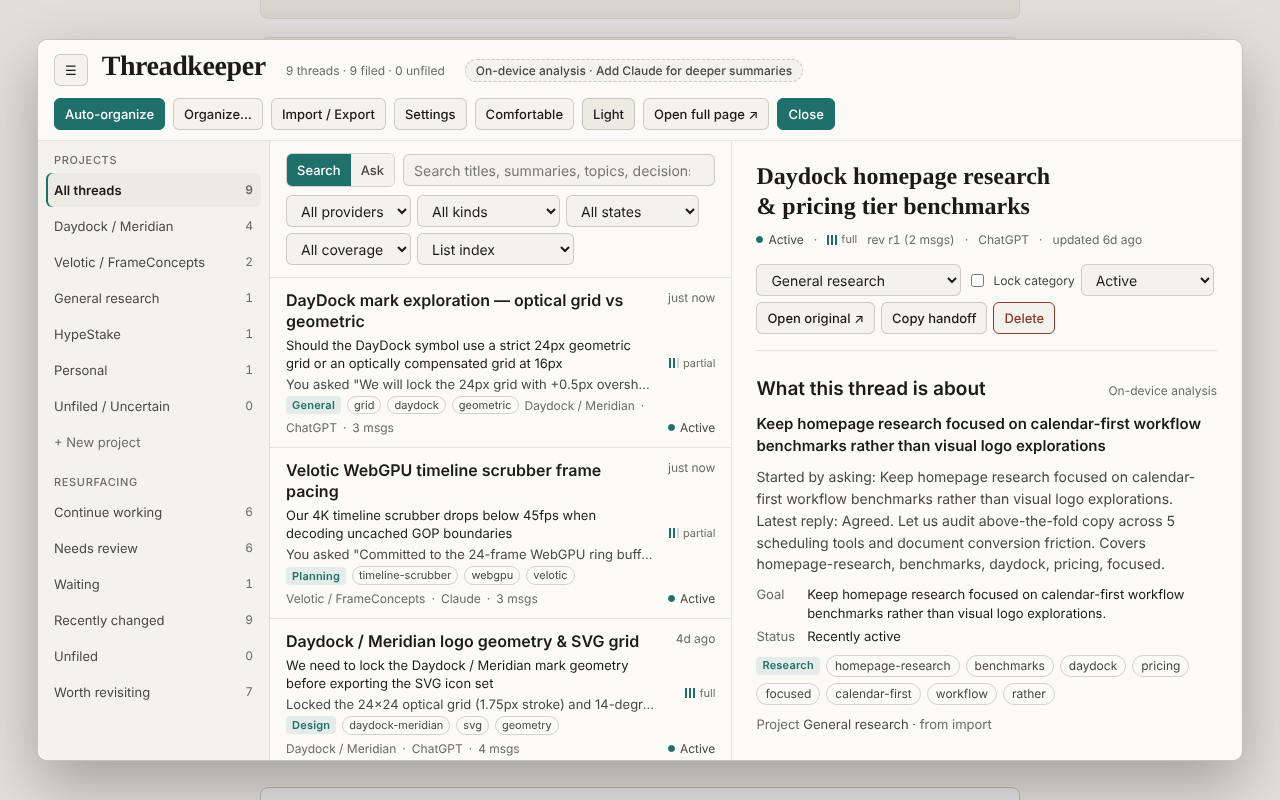
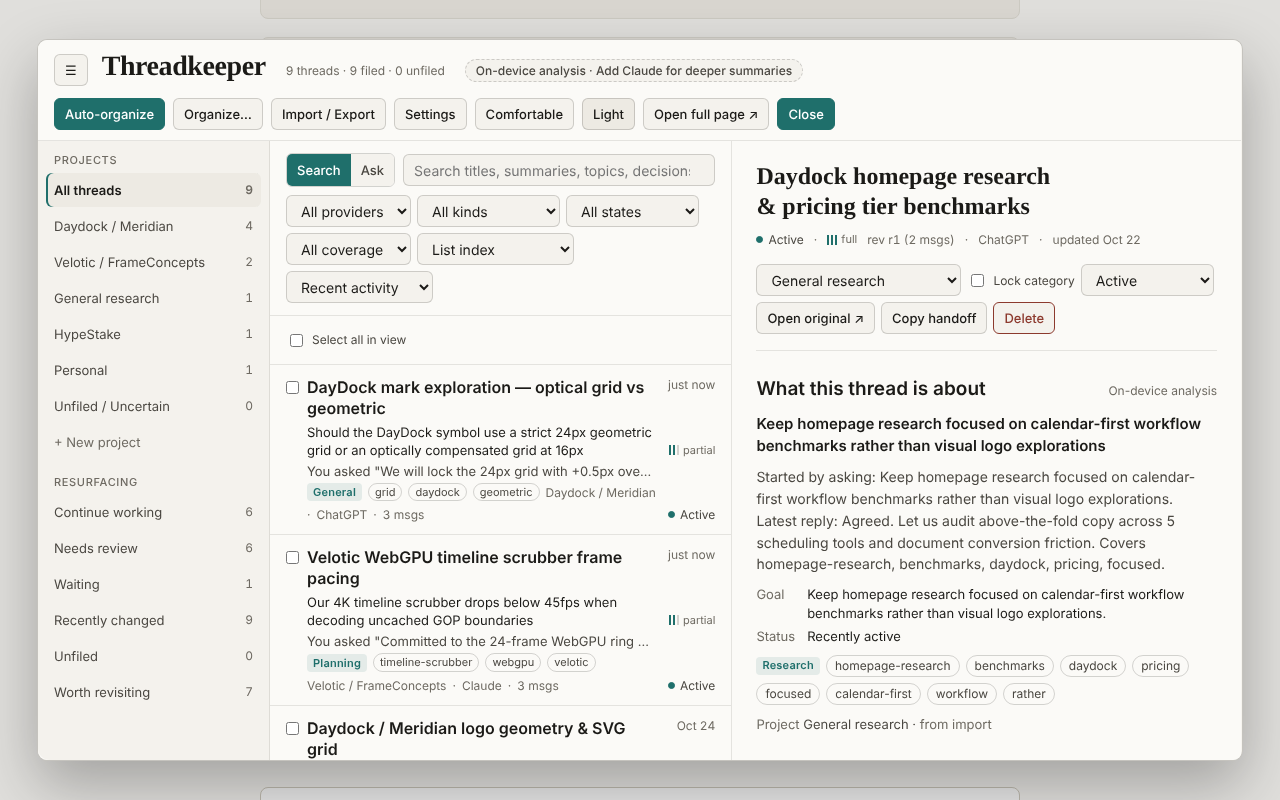
Document 0.3 capture, imports, reranking and bulk management; refresh evidence
README and docs/architecture.md describe Grok on X, Google AI Studio,
Kimi, Bedrock embeddings, reranking, bulk management and the stale-manifest
self-heal. Acceptance (all gates PASS; PERF-10 warm-open p95 175.5 ms,
search p95 4.8 ms), organizer e2e and Edge smoke evidence regenerated on
the merged build.

Claude-Session: https://claude.ai/code/session_01AiXsP91RrSsSetore6RNT6

diff --git a/README.md b/README.md
@@ -1,8 +1,8 @@
 # Threadkeeper — automatic organizer for all your AI threads
 
-Threadkeeper is a Chrome / Edge (Manifest V3) extension that captures your conversations with **ChatGPT, Claude, Claude Code, Codex, Grok, Gemini, Perplexity, DeepSeek, Le Chat and Microsoft Copilot**, works out what each one is about, and files it automatically — so you can find any thread by what it *was*, not just by its title, and pick it up where you left off.
+Threadkeeper is a Chrome / Edge (Manifest V3) extension that captures your conversations with **ChatGPT, Claude, Claude Code, Codex, Grok (on grok.com and inside X), Gemini, Google AI Studio, Perplexity, DeepSeek, Kimi, Le Chat and Microsoft Copilot**, works out what each one is about, and files it automatically, so you can find any thread by what it *was*, not just by its title, and pick it up where you left off.
 
-Everything is stored locally in your browser. AI analysis is optional and uses your own Anthropic API key.
+Everything is stored locally in your browser. AI analysis is optional and uses your own Anthropic API key or AWS account (Amazon Bedrock or Claude Platform on AWS).
 
 ---
 
@@ -11,6 +11,8 @@ Everything is stored locally in your browser. AI analysis is optional and uses y
 ### 1. Captures automatically
 - Open a conversation on any supported site and it lands in the library — no clicks. Capture is read-only, zero-footprint (no injected buttons, badges or layout changes) and never captures the composer or an in-progress streaming reply.
 - **Provider-native organization is kept:** ChatGPT Projects, Claude Projects, the GitHub repository of a Claude Code / Codex web session, and the model a ChatGPT reply used.
+- **Grok on X** (`x.com/i/grok`): X loads each Grok conversation as data, and Threadkeeper reads that response as the page receives it instead of scraping the page. A small script in X's page observes those requests without changing them. This needs host access to x.com and twitter.com; nothing outside Grok conversations is captured.
+- Messages keep the site's own ids where it exposes them, so long conversations that the site renders in pieces are not stored twice, and replies still streaming or showing "thinking" are skipped.
 - **Coding agents on your computer:** import Claude Code sessions (`~/.claude/projects`) and Codex CLI sessions (`~/.codex/sessions`, or pick `~/.codex` to include `archived_sessions` too). Pick the folder once; new sessions sync every time the library opens. Each session keeps its working directory, git branch, model and a ready-to-copy `claude --resume …` / `codex resume …` command.
   - Codex rollouts older than a week (`.jsonl.zst`) are decompressed on your device.
   - Subagent transcripts and other side files are never imported as threads of their own. A Codex fork is filed as a branch of the thread it came from, without the history it replayed, and a reverted Codex thread keeps its newest rollout.
@@ -42,8 +44,10 @@ New threads are filed into projects the moment they are captured, using the stro
 
 Status is set automatically too (*active*, *needs review* when the assistant is waiting on you, *done* when you wrapped up, *paused* after 30 days of silence) unless you set it yourself. **Auto-organize** reviews the whole library — with Claude when a key is set, otherwise by clustering similar unfiled threads into proposed projects — and shows every change for approval; every apply is undoable.
 
+**Many threads at once:** tick rows (shift-click for a range, or select all in view) to move them to a project, set their status, add a tag, pin or unpin them, make them local-only, export them as a Markdown handoff or a Portable bundle, or delete them. Every bulk edit can be undone. The list sorts by recent activity, oldest first, title or message count.
+
 ### 4. Finds and answers
-- **Search** fuses keyword, phrase, fuzzy and semantic (vector) matches across titles, gists, summaries, topics, decisions and full message text.
+- **Search** fuses keyword, phrase, fuzzy and semantic (vector) matches across titles, gists, summaries, topics, decisions and full message text. With a reranker on, pressing Enter re-reads the top candidates and puts the most relevant first.
 - **Ask** your library a question ("What did I decide about the Stripe webhook retries?") and Claude answers from your own threads with clickable `[T1]` citations.
 - **Related threads** for every conversation, by semantic similarity.
 
@@ -65,15 +69,25 @@ Status is set automatically too (*active*, *needs review* when the assistant is 
 
 ## Embeddings
 
-On-device vectors (feature-hashed, 384 dims) are always maintained and need no key. For true semantic search and better auto-filing choose a hosted model in **Settings → Embeddings**:
+On-device vectors (feature-hashed, 384 dims) are always maintained and need no key. For true semantic search and better auto-filing choose a hosted model in **Settings → Search & embeddings**:
 
 | Provider | Models | Notes |
 |---|---|---|
 | Voyage AI (recommended by Anthropic) | `voyage-4-lite`, `voyage-4`, `voyage-4-large`, `voyage-code-4` | API key from voyageai.com |
+| Amazon Bedrock | Amazon Titan Text Embeddings V2, Cohere Embed v4 (256, 512 or 1024 dimensions) | Uses the AWS credentials in Settings |
 | OpenAI | `text-embedding-3-small`, `text-embedding-3-large` | API key from platform.openai.com |
 | Ollama (local) | any embedding model, e.g. `nomic-embed-text` | start Ollama with `OLLAMA_ORIGINS=chrome-extension://*` |
 
 Vectors are only compared within one model space, so switching provider never mixes incompatible vectors.
+
+### Reranking
+
+A reranker re-scores the best first-stage candidates of a search (when you press Enter) or of an Ask question, then blends its score with the first-stage rank so a strong exact match is not buried. It sends only each thread's title, gist and best-matching excerpt, never local-only threads, and caches scores per query.
+
+| Reranker | Models | Notes |
+|---|---|---|
+| Voyage AI | `rerank-3-lite` (default), `rerank-3` | Voyage API key |
+| Amazon Bedrock | Cohere Rerank 3.5, Amazon Rerank 1.0 | With IAM keys it uses the Bedrock Rerank API. Bedrock API keys are not accepted there, so with an API key Cohere Rerank 3.5 is called directly (experimental). Cohere Rerank 3.5 runs in us-east-1, us-west-2, ca-central-1, eu-central-1 and ap-northeast-1 |
 
 ---
 
@@ -140,8 +154,13 @@ src/
     importers.ts         Format detection, zip/JSON/JSONL import, folder sync
     adapters.ts          ChatGPT/Claude export parsers, Portable bundle, Markdown handoff
     insights.ts          On-device analyzer (gist, kind, topics, decisions, next steps, status)
+    grok-x.ts            Parser for the Grok-on-X conversation data the page loads
     ai/claude.ts         Claude analysis, library planning and Ask via the official Anthropic SDK
-    embeddings.ts        Local hashed vectors + Voyage / OpenAI / Ollama
+    ai/backends.ts       One SDK client for the Anthropic API, Amazon Bedrock and Claude Platform on AWS
+    aws.ts               AWS endpoints, Bedrock API keys and SigV4 signing (aws4fetch), host access
+    embeddings.ts        Local hashed vectors + Voyage / Bedrock / OpenAI / Ollama
+    rerank.ts            Voyage and Bedrock reranking, score fusion, local-only filter
+    diagnostics.ts       Running-manifest vs build check, one-time self-reload, report
     auto-organize.ts     Project filing precedence, k-NN, clustering
     pipeline.ts          Capture → analyze → embed → file; debounced, leased Claude job queue
     library-organize.ts  Library-wide plans (Claude or local) for Auto-organize / Organize…
@@ -150,11 +169,12 @@ src/
   entrypoints/
     background.ts        Service worker: capture, alarms, analysis queue, side panel / overlay routing
     content.ts           Zero-footprint capture observer, overlay host with load watchdog
+    grok-x-main.ts       Page-world observer for Grok on X responses (reads, never changes)
     manager/             React UI shared by side panel, overlay and full page
 shared/cloud.ts          Wire schemas for the optional Cloudflare Worker
 worker/                  Optional Cloudflare Worker (DeepSeek + MongoDB Voyage)
-scripts/                 Build, acceptance, e2e and benchmark runners
-tests/unit/              Vitest suites (core + organizer)
+scripts/                 Build, acceptance, e2e, Edge smoke, bulk screenshots and benchmark runners
+tests/unit/              Vitest suites
 evidence/                Acceptance ledger, benchmark report and screenshots
 ```
 
@@ -199,5 +219,6 @@ All gates pass in packaged-extension headless Chromium (see [`evidence/acceptanc
 ## Troubleshooting
 
 - **"`<extension id>` is blocked · This page has been blocked by Microsoft Edge · ERR_BLOCKED_BY_CLIENT":** Edge is still running an old manifest. Builds before 0.2.0 made the library pages reachable only through a dynamic URL (`use_dynamic_url`), and Edge blocks the static URL it hands out, including the full-page library. Edge reads `manifest.json` only when an unpacked extension is loaded or reloaded, so running `npm run build` without pressing **Reload** keeps the broken manifest live. Fix: open `edge://extensions`, click **Reload** under Threadkeeper, and check that the version shown matches the `Built Threadkeeper … (build …)` line printed by `npm run build`. From 0.3.0 the extension detects this itself: the service worker reloads once per build to pick up the new manifest, and any open library page shows a **Reload extension** banner. **Settings → Diagnostics** compares the running manifest with the files on disk and copies a report. `npm run test:edge` reproduces the block in real Edge and checks every surface.
+- **Settings → Diagnostics** shows the running and on-disk versions, recent capture and overlay events, and copies a report without keys or thread content.
 - **A site changed its markup and capture stopped:** the generic role heuristics usually keep working; otherwise use the provider's data export via **Import / Export**.
 - **Claude analysis paused:** the status chip in the header shows the last error (invalid key, rate limit, daily limit). Fix it in Settings; queued threads resume automatically.

diff --git a/docs/architecture.md b/docs/architecture.md
@@ -2,6 +2,17 @@
 
 The implementation follows the supplied `online-thread-organizer-build-prompt.md`. The reference extension trees are read-only research inputs, not application code or build inputs. All new application code is in `threadkeeper/`.
 
+## v0.3 changes (2026-11-03)
+
+1. **Stale-manifest self-heal.** The 0.2 Edge fix only takes effect after the unpacked extension is reloaded, because Edge reads `manifest.json` on load. Every build now writes a build id into `version_name` and into the bundles. The service worker compares them at start and reloads once per build id (recorded first, so it cannot loop); pages show a Reload banner; Settings → Diagnostics explains the state. `npm run test:edge` covers this in real Edge.
+2. **Claude backends.** `src/core/ai/backends.ts` builds one official Anthropic SDK client for the Anthropic API, Claude in Amazon Bedrock (`bedrock-mantle.{region}.api.aws/anthropic`, `anthropic.`-prefixed model ids) or Claude Platform on AWS (workspace header). The AWS-flavoured SDK packages import Node built-ins and do not bundle for a browser, so Bedrock API keys use the standard client's `apiKey` and IAM keys are SigV4-signed by a custom `fetch` (`src/core/aws.ts`, aws4fetch). Bedrock gets the client-side refusal fallback, dropped automatically if Bedrock rejects its beta header.
+3. **AWS host access is optional.** `optional_host_permissions` covers `*.api.aws` and `*.amazonaws.com`; Settings requests only the endpoints of the configured region, from a click.
+4. **Embeddings and reranking.** Bedrock Titan Text v2 and Cohere Embed v4 join the hosted spaces. A second-stage reranker (Voyage `rerank-3`/`rerank-3-lite`, or Bedrock Cohere Rerank 3.5 / Amazon Rerank 1.0) re-scores fused candidates on explicit search submit and in Ask, blended with first-stage rank. Bedrock API keys are rejected by the Rerank API, so key-based Bedrock reranking calls Cohere Rerank 3.5 through InvokeModel (third-party documented, marked experimental). Local-only threads are never sent and keep their first-stage position.
+5. **Capture.** Grok on X is a provider (`grok_x`) captured by passively reading the `GrokConversationItemsByRestId` responses X's page already requests (MAIN-world script, never alters requests or responses); other X pages are never captured. Google AI Studio and Kimi are new providers; Copilot gains `copilot.com`. Messages are keyed by the site's own ids where present (with a one-time merge for older positional ids); streaming and thinking turns are skipped.
+6. **CLI imports.** Claude Code side files (subagents, workflows, orphaned and superseded transcripts) are not threads. Codex `.jsonl.zst` rollouts are decompressed with fzstd; archived sessions are included; reverted rollouts collapse to one thread; forks are stored as branches of their root thread without the replayed history.
+7. **Bulk management.** Selection across list, kanban and cards; bulk move, status, tag, pin, local-only, export and delete. Bulk edits go through `updateManualThreadFields` and are one undoable change-log entry.
+8. **Research provenance.** `docs/research/2026-11-03-v0.3/` holds the source and claim ledgers and the decision report (research-first-creator, manual mode).
+
 ## v0.2 changes (2026-10-28)
 
 1. **Edge fix — no `use_dynamic_url`.** `manager.html` was web-accessible only through a per-session dynamic ID. Chrome 153 returns that dynamic URL from `chrome.runtime.getURL()` in content scripts, but Microsoft Edge returns the static extension ID, and a static URL for a dynamic-URL resource is refused with `ERR_BLOCKED_BY_CLIENT` ("`<id>` is blocked"). The flag is gone; framing safety rests on the one-time handshake (unauthenticated frames still render only the rejection notice). Accepted cost: any website can now detect that the extension is installed by probing `chrome-extension://<id>/manager.html` (the dynamic URL used to hide this); it learns nothing else. A content-script watchdog replaces an overlay whose frame never redeems its handshake with the full-page library.

diff --git a/evidence/acceptance/acceptance-report.md b/evidence/acceptance/acceptance-report.md
@@ -1,6 +1,6 @@
 # Threadkeeper Acceptance & Verification Report
 
-Generated: `2026-10-28T15:33:12.548Z`
+Generated: `2026-11-03T04:27:25.826Z`
 Extension Build: `/home/user/threadkeeper/.output/chrome-mv3`
 
 ## Summary of 10 Acceptance Gates
@@ -16,7 +16,7 @@ Extension Build: `/home/user/threadkeeper/.output/chrome-mv3`
 | `AI-07` | Grounded Enrichment, Worker Auth & NL Organize | **PASS** | `NOT_VERIFIED` (gated per §14) | SHA-256 Bearer token hash auth (`AUTH_TOKEN_HASHES_JSON`) + `UsageQuotaDO` unconditional fail-closed quota enforcement, `/v1/enrich-thread` client-worker parity, `422` `title_only` guard, negative exclusion clause (`negativeClauseExcludedInUi=true`) + 1-click Undo |
 | `SEARCH-08` | Hybrid Local + Vector Search & Provenance | **PASS** | `NOT_VERIFIED` (gated per §14) | Real-browser search (`hits=5`) with match reasons & supporting quotes, RRF lexical+vector fusion, dimension/model validation, rerank index fallback, and default `isSyntheticBenchmark` exclusion |
 | `LIFE-09` | Lifecycle Hygiene, Cascade Delete & Tombstones | **PASS** | N/A (local extension lifecycle) | MV3 permissions (`storage`, `unlimitedStorage`, `alarms`, `scripting`, `sidePanel`; no localhost origins), atomic tombstone transaction in `applySummaryEnrichment`, cascade delete across 6 stores, zero auto-open on fresh tab |
-| `PERF-10` | 10,000-Record Warm-Open & Local Search Latency | **PASS** | N/A (local 10k benchmark) | Packaged-extension Chromium IndexedDB 10k: Warm-open `p50=158.7ms`, `p95=194.3ms` (<= 500ms); Local search `p50=5.9ms`, `p95=7.9ms` (<= 150ms) |
+| `PERF-10` | 10,000-Record Warm-Open & Local Search Latency | **PASS** | N/A (local 10k benchmark) | Packaged-extension Chromium IndexedDB 10k: Warm-open `p50=110.5ms`, `p95=175.5ms` (<= 500ms); Local search `p50=3.6ms`, `p95=4.8ms` (<= 150ms) |
 
 ## Evidence Artifacts
 
